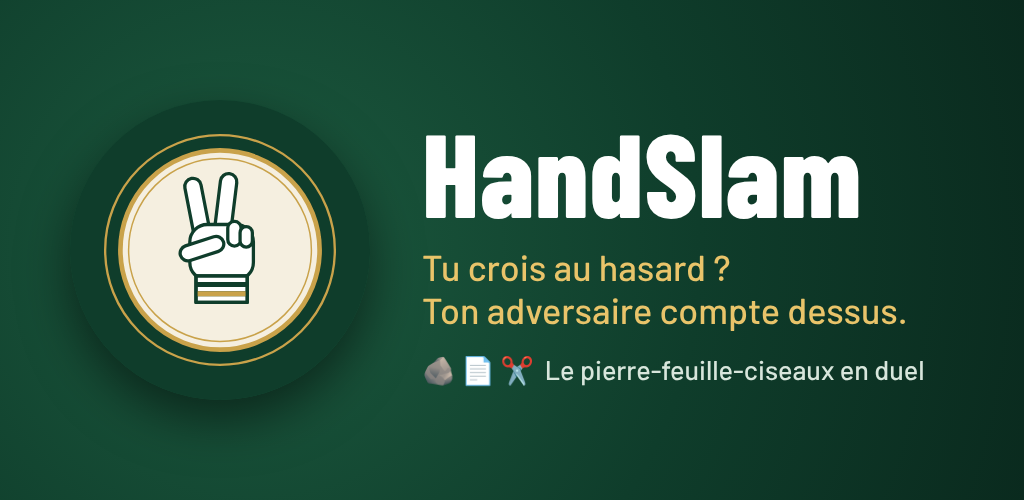
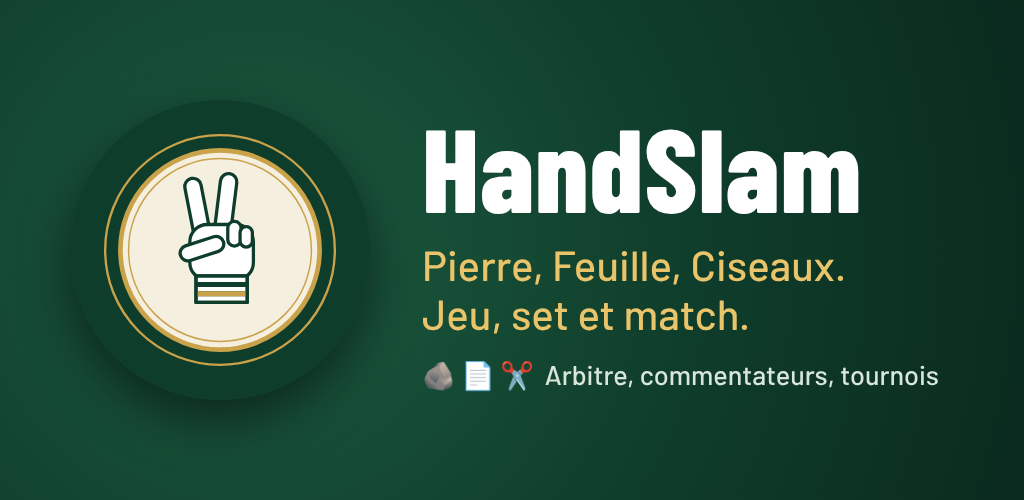
Nouveau slogan : « Pierre, Feuille, Ciseaux. Jeu, set et match. » (bannière du Play Store, textes de promotion)
Claude-Session: https://claude.ai/code/session_015hnJwjfMAgZo16QRUemSWm

diff --git a/docs/textes-promotion.md b/docs/textes-promotion.md
@@ -21,11 +21,14 @@
 > Lis ton adversaire. Cache ton jeu. Gagne le match. 🏆
 > 👉 handslam.fr
 
-## Slogan principal (choisi le 4 octobre)
-**Tu crois au hasard ? Ton adversaire compte dessus.**
-(version courte, pour une petite place : « Le hasard ? Ton adversaire compte dessus. »)
+## Slogan principal (choisi le 7 octobre)
+**Pierre, Feuille, Ciseaux. Jeu, set et match.**
+(sur la bannière du Play Store ; l'ancien slogan principal, « Tu crois au hasard ? Ton adversaire compte dessus. », passe en réserve : il marche bien dans un message aux amis)
 
 ## Slogans en réserve
+- Tu crois au hasard ? Ton adversaire compte dessus. (version courte : « Le hasard ? Ton adversaire compte dessus. »)
+- Lis-le avant qu'il te lise.
+- Le chifoumi a enfin son Grand Chelem.
 - Pas un coup de chance. Un coup de maître.
 - Pas de bol. Que du Slam.
 - Le hasard ne gagne pas de tournoi.
